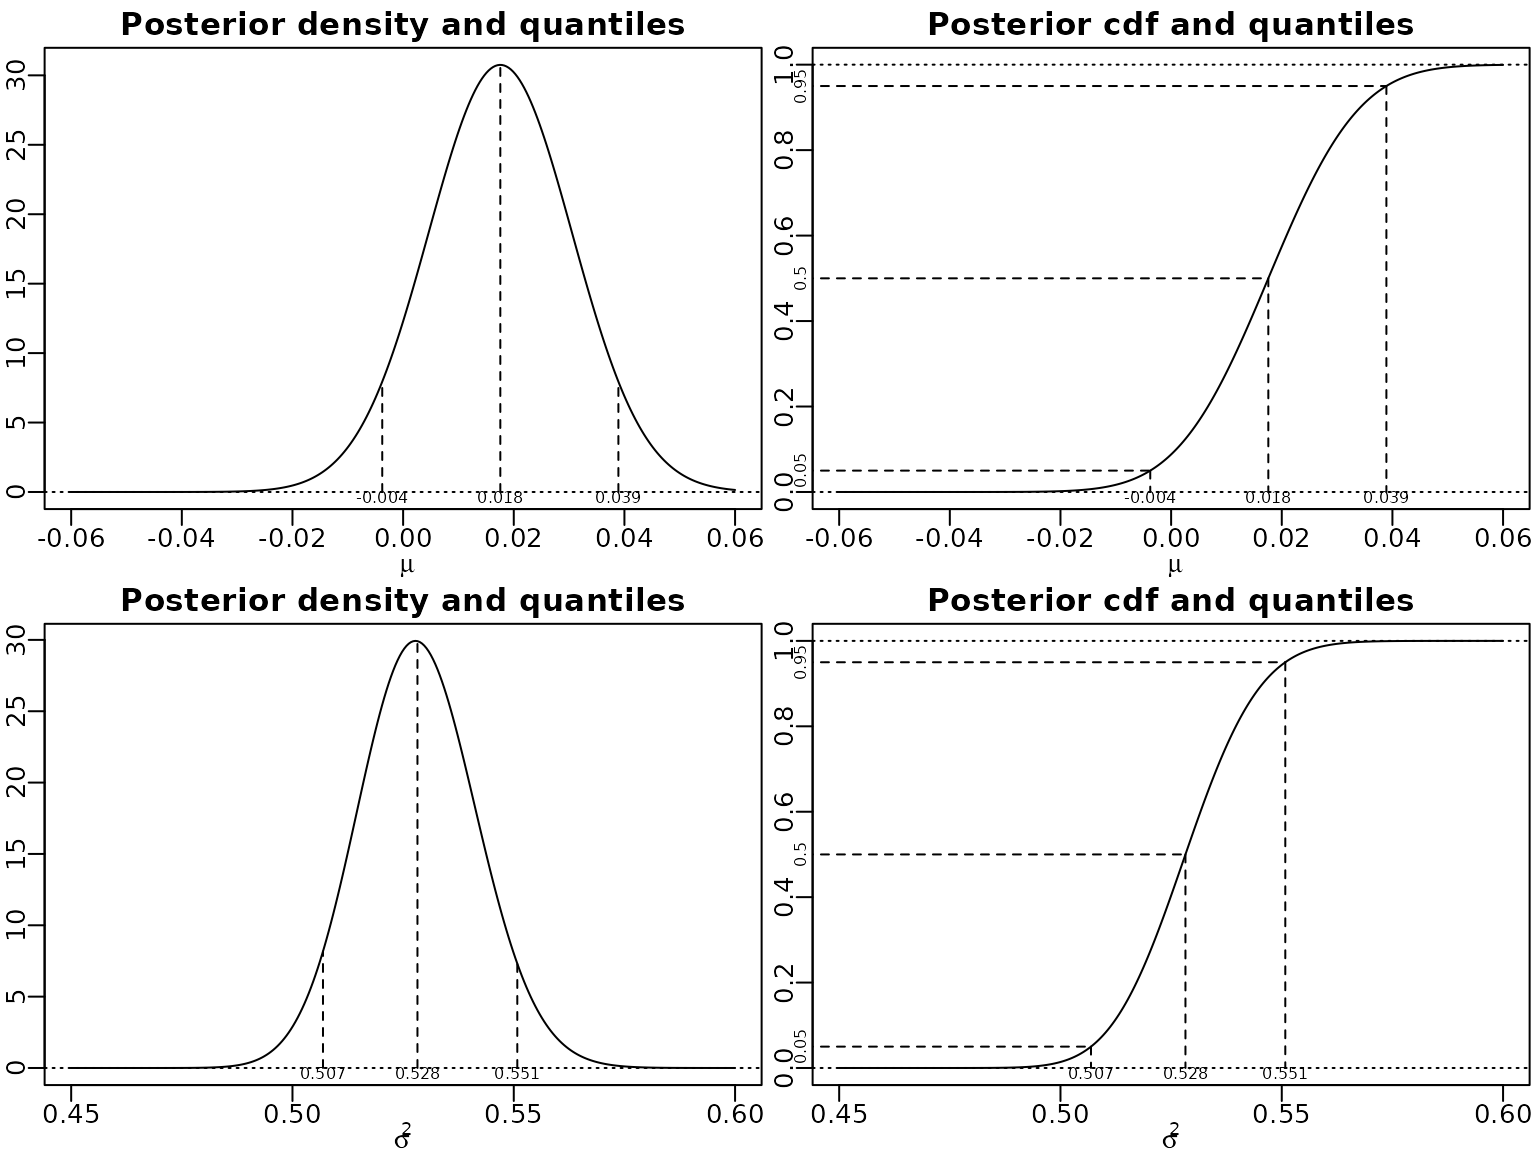
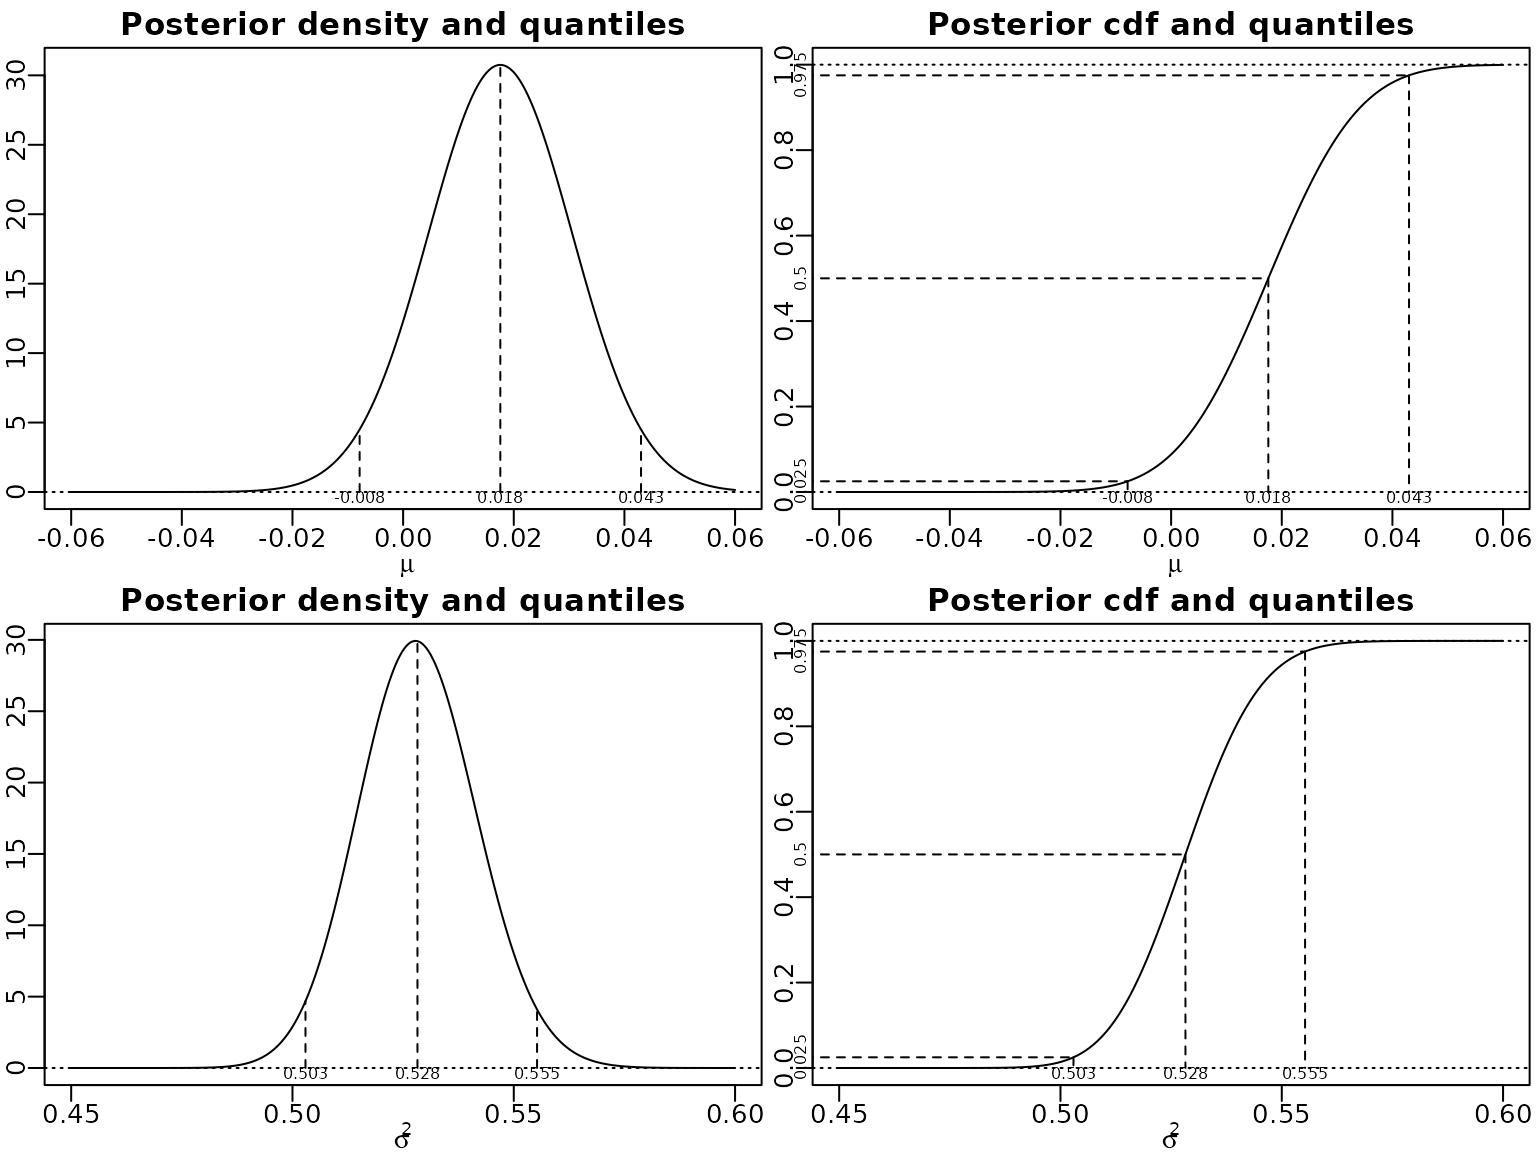
Deploying to gh-pages from @ gregorkastner/BayesianLearningCode@b97ca495207868309be5620eae8a0952c693b860 🚀

diff --git a/articles/Chapter04.html b/articles/Chapter04.html
@@ -206,7 +206,7 @@ Student’s t distribution.</p>
 <code class="sourceCode R"><span><span class="va">location</span> <span class="op">&lt;-</span> <span class="fu"><a href="https://rdrr.io/r/base/mean.html" class="external-link">mean</a></span><span class="op">(</span><span class="va">y</span><span class="op">)</span></span>
 <span><span class="va">scale</span> <span class="op">&lt;-</span> <span class="fu"><a href="https://rdrr.io/r/base/MathFun.html" class="external-link">sqrt</a></span><span class="op">(</span><span class="fu"><a href="https://rdrr.io/r/stats/cor.html" class="external-link">var</a></span><span class="op">(</span><span class="va">y</span><span class="op">)</span> <span class="op">/</span> <span class="va">N</span><span class="op">)</span></span>
 <span><span class="va">df</span> <span class="op">&lt;-</span> <span class="va">N</span> <span class="op">-</span> <span class="fl">1</span></span>
-<span><span class="va">probs</span> <span class="op">&lt;-</span> <span class="fu"><a href="https://rdrr.io/r/base/c.html" class="external-link">c</a></span><span class="op">(</span><span class="fl">0.05</span>, <span class="fl">.5</span>, <span class="fl">.95</span><span class="op">)</span></span>
+<span><span class="va">probs</span> <span class="op">&lt;-</span> <span class="fu"><a href="https://rdrr.io/r/base/c.html" class="external-link">c</a></span><span class="op">(</span><span class="fl">0.025</span>, <span class="fl">.5</span>, <span class="fl">.975</span><span class="op">)</span></span>
 <span></span>
 <span><span class="va">mu</span> <span class="op">&lt;-</span> <span class="fu"><a href="https://rdrr.io/r/base/seq.html" class="external-link">seq</a></span><span class="op">(</span><span class="op">-</span><span class="fl">.06</span>, <span class="fl">.06</span>, length.out <span class="op">=</span> <span class="fl">300</span><span class="op">)</span></span>
 <span><span class="fu"><a href="https://rdrr.io/r/graphics/plot.default.html" class="external-link">plot</a></span><span class="op">(</span><span class="va">mu</span>, <span class="fu">dstudt</span><span class="op">(</span><span class="va">mu</span>, <span class="va">location</span>, <span class="va">scale</span>, <span class="va">df</span><span class="op">)</span>, type <span class="op">=</span> <span class="st">"l"</span>, xlab <span class="op">=</span> <span class="fu"><a href="https://rdrr.io/r/base/expression.html" class="external-link">expression</a></span><span class="op">(</span><span class="va">mu</span><span class="op">)</span>,</span>
@@ -262,6 +262,19 @@ Student’s t distribution.</p>
 <span><span class="fu"><a href="https://rdrr.io/r/graphics/mtext.html" class="external-link">mtext</a></span><span class="op">(</span><span class="fu"><a href="https://rdrr.io/r/base/Round.html" class="external-link">round</a></span><span class="op">(</span><span class="va">qs</span>, <span class="fl">3</span><span class="op">)</span>, side <span class="op">=</span> <span class="fl">1</span>, line <span class="op">=</span> <span class="op">-</span><span class="fl">1</span>, at <span class="op">=</span> <span class="va">qs</span>, cex <span class="op">=</span> <span class="fl">.5</span><span class="op">)</span></span>
 <span><span class="fu"><a href="https://rdrr.io/r/graphics/mtext.html" class="external-link">mtext</a></span><span class="op">(</span><span class="va">probs</span>, side <span class="op">=</span> <span class="fl">2</span>, at <span class="op">=</span> <span class="va">probs</span>, cex <span class="op">=</span> <span class="fl">.5</span><span class="op">)</span></span></code></pre></div>
 <p><img src="Chapter04_files/figure-html/unnamed-chunk-8-1.png" width="768"></p>
+<p>To find the HPD of
+<math display="inline" xmlns="http://www.w3.org/1998/Math/MathML"><semantics><mrow><msup><mi>σ</mi><mn>2</mn></msup><mo stretchy="false" form="prefix">|</mo><mi>𝐲</mi></mrow><annotation encoding="application/x-tex">\sigma^2|\mathbf{y}</annotation></semantics></math>,
+we can use a grid search.</p>
+<div class="sourceCode" id="cb7"><pre class="downlit sourceCode r">
+<code class="sourceCode R"><span><span class="va">resolution</span> <span class="op">&lt;-</span> <span class="fl">10000</span></span>
+<span><span class="va">grid</span> <span class="op">&lt;-</span> <span class="fu"><a href="https://rdrr.io/r/base/seq.html" class="external-link">seq</a></span><span class="op">(</span><span class="fl">0</span>, <span class="fl">1</span>, length.out <span class="op">=</span> <span class="va">resolution</span> <span class="op">+</span> <span class="fl">1</span><span class="op">)</span></span>
+<span><span class="va">dist</span> <span class="op">&lt;-</span> <span class="fl">0.95</span> <span class="op">*</span> <span class="va">resolution</span></span>
+<span></span>
+<span><span class="va">qs</span> <span class="op">&lt;-</span> <span class="fu">qinvgamma</span><span class="op">(</span><span class="va">grid</span>, <span class="va">cN</span>, <span class="va">CN</span><span class="op">)</span></span>
+<span><span class="va">minimizer</span> <span class="op">&lt;-</span> <span class="fu"><a href="https://rdrr.io/r/base/which.min.html" class="external-link">which.min</a></span><span class="op">(</span><span class="fu"><a href="https://rdrr.io/r/base/diff.html" class="external-link">diff</a></span><span class="op">(</span><span class="va">qs</span>, lag <span class="op">=</span> <span class="va">dist</span><span class="op">)</span><span class="op">)</span></span>
+<span><span class="va">HPD</span> <span class="op">&lt;-</span> <span class="va">qs</span><span class="op">[</span><span class="fu"><a href="https://rdrr.io/r/base/c.html" class="external-link">c</a></span><span class="op">(</span><span class="va">minimizer</span>, <span class="va">minimizer</span> <span class="op">+</span> <span class="va">dist</span><span class="op">)</span><span class="op">]</span></span>
+<span><span class="fu"><a href="https://rdrr.io/r/base/Round.html" class="external-link">round</a></span><span class="op">(</span><span class="va">HPD</span>, <span class="fl">4</span><span class="op">)</span></span>
+<span><span class="co">#&gt; [1] 0.5025 0.5548</span></span></code></pre></div>
 </div>
 <div class="section level3">
 <h3 id="example-4-4-fitting-a-t-distribution-with-known-mean-and-known-degrees-of-freedom">Example 4.4: Fitting a t distribution with known mean and known
@@ -276,7 +289,7 @@ Rather, it expects a scalar <em>sigma2</em> and a data vector
 <math display="inline" xmlns="http://www.w3.org/1998/Math/MathML"><semantics><mi>y</mi><annotation encoding="application/x-tex">y</annotation></semantics></math>.
 We can, however, vectorize it using <em>Vectorize</em> (this is not the
 fasted of all methods in R, but will do just fine for our use-case).</p>
-<div class="sourceCode" id="cb7"><pre class="downlit sourceCode r">
+<div class="sourceCode" id="cb8"><pre class="downlit sourceCode r">
 <code class="sourceCode R"><span><span class="va">post_unnormalized_nonvec</span> <span class="op">&lt;-</span> <span class="kw">function</span><span class="op">(</span><span class="va">sigma2</span>, <span class="va">y</span>, <span class="va">nu</span>, <span class="va">log</span> <span class="op">=</span> <span class="cn">FALSE</span><span class="op">)</span> <span class="op">{</span></span>
 <span>  <span class="va">logdens</span> <span class="op">&lt;-</span> <span class="op">-</span><span class="fu"><a href="https://rdrr.io/r/base/length.html" class="external-link">length</a></span><span class="op">(</span><span class="va">y</span><span class="op">)</span> <span class="op">/</span> <span class="fl">2</span> <span class="op">*</span> <span class="fu"><a href="https://rdrr.io/r/base/Log.html" class="external-link">log</a></span><span class="op">(</span><span class="va">sigma2</span><span class="op">)</span> <span class="op">-</span></span>
 <span>    <span class="op">(</span><span class="va">nu</span> <span class="op">+</span> <span class="fl">1</span><span class="op">)</span> <span class="op">/</span> <span class="fl">2</span> <span class="op">*</span> <span class="fu"><a href="https://rdrr.io/r/base/sum.html" class="external-link">sum</a></span><span class="op">(</span><span class="fu"><a href="https://rdrr.io/r/base/Log.html" class="external-link">log</a></span><span class="op">(</span><span class="fl">1</span> <span class="op">+</span> <span class="va">y</span><span class="op">^</span><span class="fl">2</span> <span class="op">/</span> <span class="op">(</span><span class="va">nu</span> <span class="op">*</span> <span class="va">sigma2</span><span class="op">)</span><span class="op">)</span><span class="op">)</span> <span class="op">-</span> <span class="fu"><a href="https://rdrr.io/r/base/Log.html" class="external-link">log</a></span><span class="op">(</span><span class="va">sigma2</span><span class="op">)</span></span>
@@ -284,7 +297,7 @@ fasted of all methods in R, but will do just fine for our use-case).</p>
 <span><span class="op">}</span></span>
 <span><span class="va">post_unnormalized</span> <span class="op">&lt;-</span> <span class="fu"><a href="https://rdrr.io/r/base/Vectorize.html" class="external-link">Vectorize</a></span><span class="op">(</span><span class="va">post_unnormalized_nonvec</span>, <span class="st">"sigma2"</span><span class="op">)</span></span></code></pre></div>
 <p>Now we can plot.</p>
-<div class="sourceCode" id="cb8"><pre class="downlit sourceCode r">
+<div class="sourceCode" id="cb9"><pre class="downlit sourceCode r">
 <code class="sourceCode R"><span><span class="va">nu</span> <span class="op">&lt;-</span> <span class="fl">7</span></span>
 <span><span class="va">sigma2</span> <span class="op">&lt;-</span> <span class="fu"><a href="https://rdrr.io/r/base/seq.html" class="external-link">seq</a></span><span class="op">(</span><span class="fl">0.3</span>, <span class="fl">0.4</span>, length.out <span class="op">=</span> <span class="fl">3000</span><span class="op">)</span></span>
 <span><span class="va">pdf_u</span> <span class="op">&lt;-</span> <span class="fu">post_unnormalized</span><span class="op">(</span><span class="va">sigma2</span>, y <span class="op">=</span> <span class="va">y</span>, nu <span class="op">=</span> <span class="va">nu</span><span class="op">)</span></span>
@@ -297,7 +310,7 @@ fasted of all methods in R, but will do just fine for our use-case).</p>
 <span><span class="fu"><a href="https://rdrr.io/r/graphics/plot.default.html" class="external-link">plot</a></span><span class="op">(</span><span class="va">sigma2</span>, <span class="va">cdf_u</span>, type <span class="op">=</span> <span class="st">"l"</span>, xlab <span class="op">=</span> <span class="fu"><a href="https://rdrr.io/r/base/expression.html" class="external-link">expression</a></span><span class="op">(</span><span class="va">sigma</span><span class="op">^</span><span class="fl">2</span><span class="op">)</span>,</span>
 <span>     ylab <span class="op">=</span> <span class="st">""</span>, main <span class="op">=</span> <span class="st">"Cumulative unnormalized posterior"</span><span class="op">)</span></span>
 <span><span class="fu"><a href="https://rdrr.io/r/graphics/abline.html" class="external-link">abline</a></span><span class="op">(</span>h <span class="op">=</span> <span class="fu"><a href="https://rdrr.io/r/base/c.html" class="external-link">c</a></span><span class="op">(</span><span class="fl">0</span>, <span class="va">cdf_u</span><span class="op">[</span><span class="fu"><a href="https://rdrr.io/r/base/length.html" class="external-link">length</a></span><span class="op">(</span><span class="va">cdf_u</span><span class="op">)</span><span class="op">]</span><span class="op">)</span>, lty <span class="op">=</span> <span class="fl">3</span><span class="op">)</span></span></code></pre></div>
-<p><img src="Chapter04_files/figure-html/unnamed-chunk-10-1.png" width="768"></p>
+<p><img src="Chapter04_files/figure-html/unnamed-chunk-11-1.png" width="768"></p>
 </div>
 <div class="section level3">
 <h3 id="example-4-5-bayesian-learning-of-quantiles">Example 4.5: Bayesian learning of quantiles<a class="anchor" aria-label="anchor" href="#example-4-5-bayesian-learning-of-quantiles"></a>
@@ -314,7 +327,7 @@ interest from
 Note, again, that R’s vectorization ability comes in handy. Here, in
 particular, <em>rnorm</em> can handle the so-called <em>varying
 parameter case</em>.</p>
-<div class="sourceCode" id="cb9"><pre class="downlit sourceCode r">
+<div class="sourceCode" id="cb10"><pre class="downlit sourceCode r">
 <code class="sourceCode R"><span><span class="fu"><a href="https://rdrr.io/r/base/Random.html" class="external-link">set.seed</a></span><span class="op">(</span><span class="fl">42</span><span class="op">)</span></span>
 <span><span class="va">alpha</span> <span class="op">&lt;-</span> <span class="fl">0.005</span></span>
 <span><span class="va">ndraws</span> <span class="op">&lt;-</span> <span class="fl">100000</span></span>
@@ -327,7 +340,7 @@ from the interval spanned by 0 and the maximum of the nonnormalized
 cumulative posterior. Then, for each draw, we find the interval of our
 pointwise cdf approximation of the posterior, and interpolate linearly
 between the interval boundaries.</p>
-<div class="sourceCode" id="cb10"><pre class="downlit sourceCode r">
+<div class="sourceCode" id="cb11"><pre class="downlit sourceCode r">
 <code class="sourceCode R"><span><span class="va">unifdraws</span> <span class="op">&lt;-</span> <span class="fu"><a href="https://rdrr.io/r/stats/Uniform.html" class="external-link">runif</a></span><span class="op">(</span><span class="va">ndraws</span>, <span class="fl">0</span>, <span class="va">cdf_u</span><span class="op">[</span><span class="fu"><a href="https://rdrr.io/r/base/length.html" class="external-link">length</a></span><span class="op">(</span><span class="va">cdf_u</span><span class="op">)</span><span class="op">]</span><span class="op">)</span></span>
 <span><span class="va">leftind</span> <span class="op">&lt;-</span> <span class="fu"><a href="https://rdrr.io/r/base/findInterval.html" class="external-link">findInterval</a></span><span class="op">(</span><span class="va">unifdraws</span>, <span class="va">cdf_u</span><span class="op">)</span></span>
 <span><span class="va">rightind</span> <span class="op">&lt;-</span> <span class="va">leftind</span> <span class="op">+</span> <span class="fl">1L</span></span>
@@ -336,14 +349,14 @@ between the interval boundaries.</p>
 <span>  <span class="op">(</span><span class="va">sigma2</span><span class="op">[</span><span class="va">rightind</span><span class="op">]</span> <span class="op">-</span> <span class="va">sigma2</span><span class="op">[</span><span class="va">leftind</span><span class="op">]</span><span class="op">)</span></span></code></pre></div>
 <p>Let us do a quick graphical check whether the draws and our pdf
 align.</p>
-<div class="sourceCode" id="cb11"><pre class="downlit sourceCode r">
+<div class="sourceCode" id="cb12"><pre class="downlit sourceCode r">
 <code class="sourceCode R"><span><span class="va">myhist</span> <span class="op">&lt;-</span> <span class="fu"><a href="https://rdrr.io/r/graphics/hist.html" class="external-link">hist</a></span><span class="op">(</span><span class="va">sigma2draws</span>, breaks <span class="op">=</span> <span class="fl">100</span>, xlab <span class="op">=</span> <span class="fu"><a href="https://rdrr.io/r/base/expression.html" class="external-link">expression</a></span><span class="op">(</span><span class="va">sigma</span><span class="op">^</span><span class="fl">2</span><span class="op">)</span>,</span>
 <span>               ylab <span class="op">=</span> <span class="st">""</span>, main <span class="op">=</span> <span class="st">"Histogram of draws and nonnormalized pdf"</span><span class="op">)</span></span>
 <span><span class="fu"><a href="https://rdrr.io/r/graphics/lines.html" class="external-link">lines</a></span><span class="op">(</span><span class="va">sigma2</span>, <span class="fu"><a href="https://rdrr.io/r/base/Extremes.html" class="external-link">max</a></span><span class="op">(</span><span class="va">myhist</span><span class="op">$</span><span class="va">counts</span><span class="op">)</span> <span class="op">/</span> <span class="fu"><a href="https://rdrr.io/r/base/Extremes.html" class="external-link">max</a></span><span class="op">(</span><span class="va">pdf_u</span><span class="op">)</span> <span class="op">*</span> <span class="va">pdf_u</span>, col <span class="op">=</span> <span class="fl">2</span><span class="op">)</span></span></code></pre></div>
-<p><img src="Chapter04_files/figure-html/unnamed-chunk-13-1.png" width="768"></p>
+<p><img src="Chapter04_files/figure-html/unnamed-chunk-14-1.png" width="768"></p>
 <p>Now, we can draw from the quantile distribution and plot these
 draws.</p>
-<div class="sourceCode" id="cb12"><pre class="downlit sourceCode r">
+<div class="sourceCode" id="cb13"><pre class="downlit sourceCode r">
 <code class="sourceCode R"><span><span class="va">qtdraws</span> <span class="op">&lt;-</span> <span class="fu"><a href="https://rdrr.io/r/base/MathFun.html" class="external-link">sqrt</a></span><span class="op">(</span><span class="va">sigma2draws</span><span class="op">)</span> <span class="op">*</span> <span class="fu"><a href="https://rdrr.io/r/stats/TDist.html" class="external-link">qt</a></span><span class="op">(</span><span class="va">alpha</span>, df <span class="op">=</span> <span class="va">nu</span><span class="op">)</span></span>
 <span><span class="va">minmax</span> <span class="op">&lt;-</span> <span class="fu"><a href="https://rdrr.io/r/base/range.html" class="external-link">range</a></span><span class="op">(</span><span class="va">qnormdraws</span>, <span class="va">qtdraws</span>, <span class="fu"><a href="https://rdrr.io/r/stats/quantile.html" class="external-link">quantile</a></span><span class="op">(</span><span class="va">y</span>, <span class="va">alpha</span><span class="op">)</span><span class="op">)</span></span>
 <span><span class="va">mybreaks</span> <span class="op">&lt;-</span> <span class="fu"><a href="https://rdrr.io/r/base/seq.html" class="external-link">seq</a></span><span class="op">(</span><span class="va">minmax</span><span class="op">[</span><span class="fl">1</span><span class="op">]</span> <span class="op">-</span> <span class="fl">.01</span> <span class="op">*</span> <span class="fu"><a href="https://rdrr.io/r/base/diff.html" class="external-link">diff</a></span><span class="op">(</span><span class="va">minmax</span><span class="op">)</span>,</span>
@@ -359,7 +372,7 @@ draws.</p>
 <span>                   <span class="st">"%-VaR draws under the"</span> <span class="op">~</span> <span class="va">t</span><span class="op">[</span><span class="fu">.</span><span class="op">(</span><span class="va">nu</span><span class="op">)</span><span class="op">]</span><span class="op">(</span><span class="fl">0</span>, <span class="va">sigma</span><span class="op">^</span><span class="fl">2</span><span class="op">)</span> <span class="op">~</span></span>
 <span>                   <span class="st">"likelihood assumption"</span><span class="op">)</span>, prob <span class="op">=</span> <span class="cn">TRUE</span><span class="op">)</span></span>
 <span><span class="fu"><a href="https://rdrr.io/r/graphics/points.html" class="external-link">points</a></span><span class="op">(</span><span class="fu"><a href="https://rdrr.io/r/stats/quantile.html" class="external-link">quantile</a></span><span class="op">(</span><span class="va">y</span>, <span class="va">alpha</span><span class="op">)</span>, <span class="fl">0</span>, col <span class="op">=</span> <span class="fl">2</span>, pch <span class="op">=</span> <span class="fl">16</span>, cex <span class="op">=</span> <span class="fl">1.5</span><span class="op">)</span></span></code></pre></div>
-<p><img src="Chapter04_files/figure-html/unnamed-chunk-14-1.png" width="768"></p>
+<p><img src="Chapter04_files/figure-html/unnamed-chunk-15-1.png" width="768"></p>
 </div>
 </div>
   </main><aside class="col-md-3"><nav id="toc" aria-label="Table of contents"><h2>On this page</h2>
